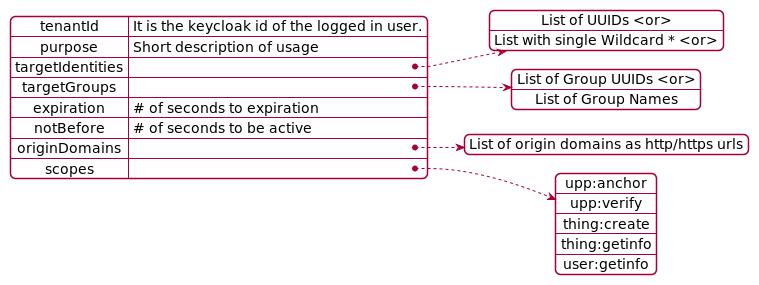
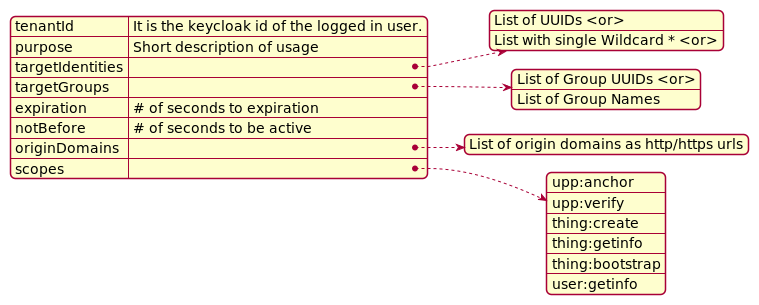
UNG-1332 Updating versions

diff --git a/README.md b/README.md
@@ -49,7 +49,7 @@ That is to say: 'X seconds from now', where X == notBefore AND now == the curren
 
 _`originDomains`_: list of domains from which the calls will be accepted from when verifying.
 
-_`scopes`_: list of available scopes: "upp:anchor", "upp:verify", "thing:create", "thing:getinfo", "user:getinfo"
+_`scopes`_: list of available scopes: "upp:anchor", "upp:verify", "thing:create", "thing:getinfo", "thing:bootstrap", "user:getinfo"
 
 **Mandatory Fields**
 
@@ -66,8 +66,6 @@ _`scopes`_: list of available scopes: "upp:anchor", "upp:verify", "thing:create"
 * notBefore (number of null) in seconds
 
 Set as null or don't send the fields.
-
-NOTE: Don't send `targetIdentities` and `targetGroups`. Send only one at a time.  
 
 ## Create a Verification Token for Specific Devices. 
 
@@ -107,7 +105,7 @@ curl -s -X POST \
 
 ```json
 {
-  "version": "1.0",
+  "version": "2.0.0",
   "ok": true,
   "data": {
     "id": "726aa795-a2dc-4354-9559-41a2c86615a1",
@@ -163,7 +161,7 @@ curl -s -X POST \
 
 ```json
 {
-  "version": "1.0",
+  "version": "2.0.0",
   "ok": true,
   "data": {
     "id": "92d60695-e6a2-4c6c-8173-6f8f1496dbb3",
@@ -245,7 +243,7 @@ curl -s -X GET \
 
 ```json
 {
-  "version": "1.0",
+  "version": "2.0.0",
   "ok": true,
   "data": [
     {
@@ -344,11 +342,14 @@ curl -s -X GET $host/api/tokens/v1/scopes | jq .
 
 **user:getinfo**:: it allows querying info about a user.
 
+**thing:bootstrap**:: it allows creatinga bootstrap token that would permit creating devices, anchoring upps and 
+verifying upps.
+
 This call returns a json object whose data field is an array of scopes.
 
 ```json
 {
-  "version": "1.0",
+  "version": "2.0.0",
   "ok": true,
   "data": [
     "upp:anchor",
@@ -385,7 +386,7 @@ The interface offers these basic operations:
         <dependency>
             <groupId>com.ubirch</groupId>
             <artifactId>ubirch-token-sdk</artifactId>
-            <version>0.6.5-SNAPSHOT</version>
+            <version>2.0.0-SNAPSHOT</version>
         </dependency>
 
 Note that every system that might use the Light SDK and that performs externalities has to be explicitly known to the token manager. Every client has to configure their secret in their configuration file and the token manager must know of it.
